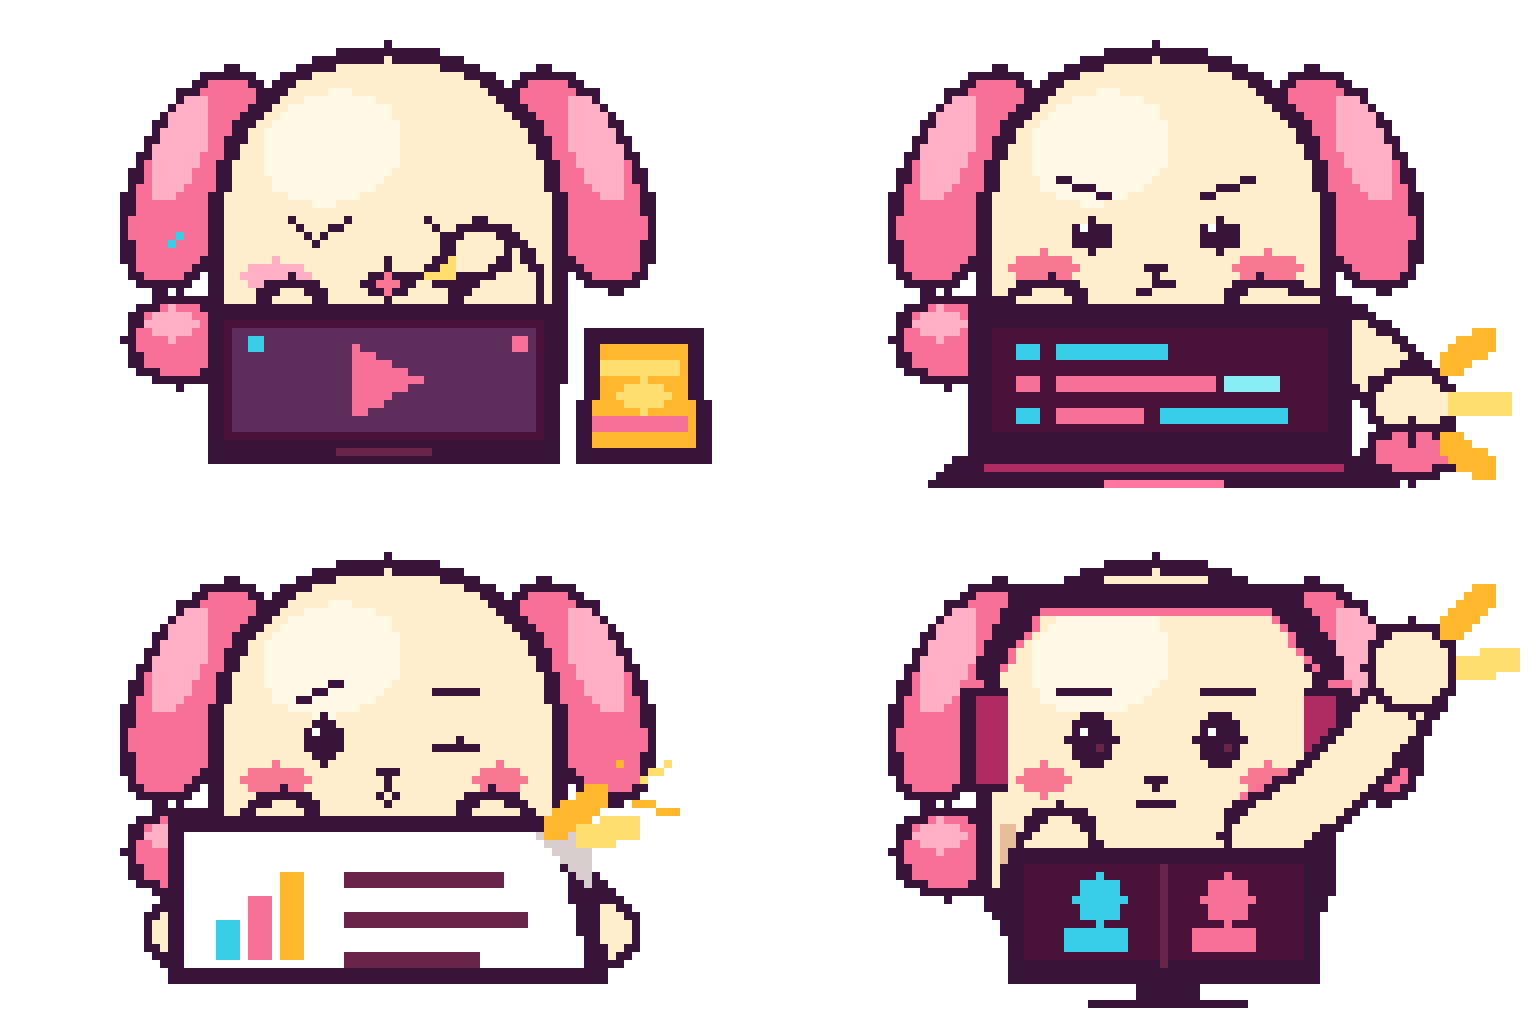
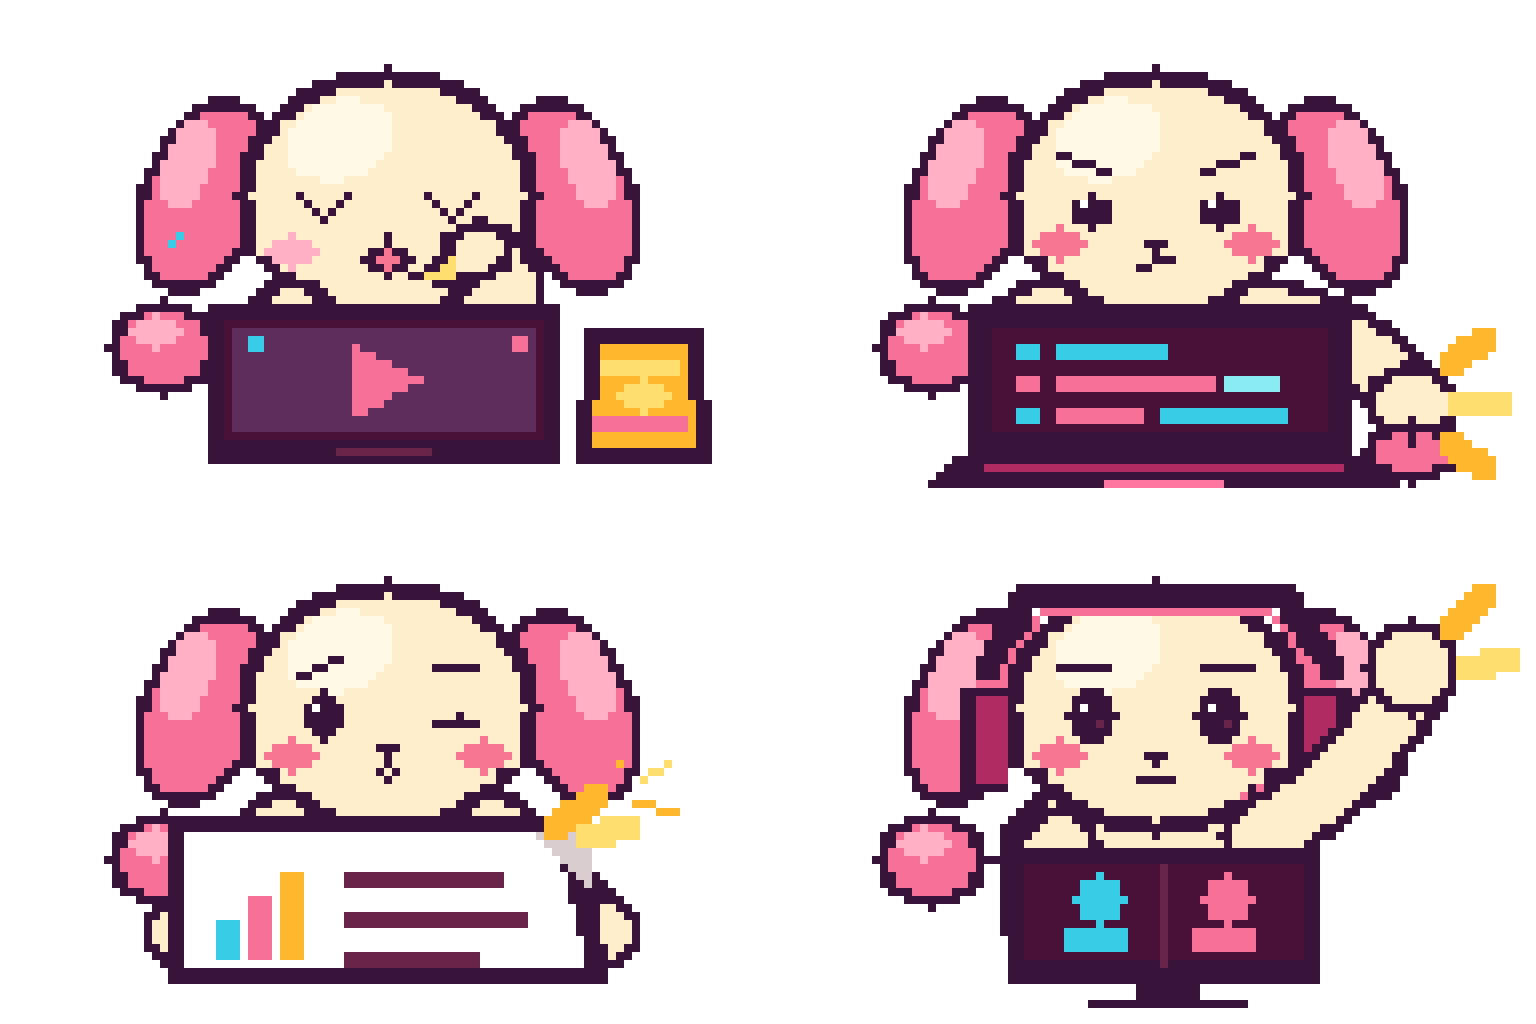
Replace activity pet with compact head

diff --git a/art/aseprite/README.md b/art/aseprite/README.md
@@ -25,8 +25,8 @@ Open `activity-designs-v1.aseprite` to review the four 96 × 64 activity poses:
 3. `paper`
 4. `meeting`
 
-The original workstation companion silhouette is shared across all four poses,
-while each scene has its own clearly different face. Body/expression,
+The compact-head companion silhouette is shared across all four poses, while
+each scene has its own clearly different face. Body/expression,
 headset/back props, complete arms, foreground props, the swappable snack item,
 and motion accents stay on separate layers. The video pose defaults to a chip
 and chip bag; future shop snacks replace only the snack layer.
